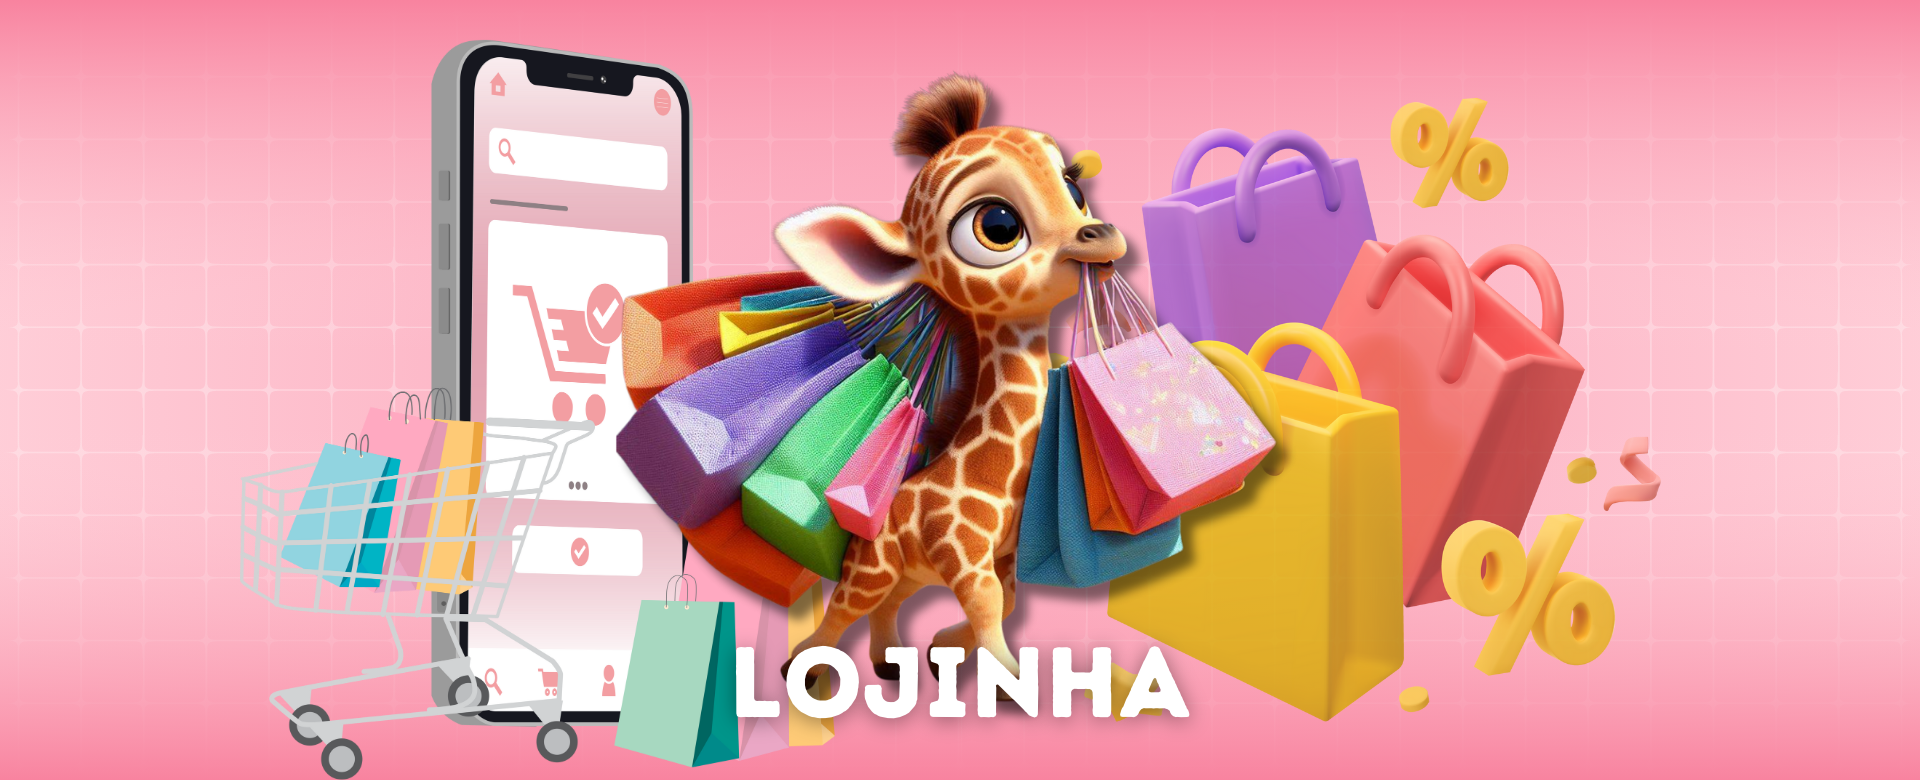
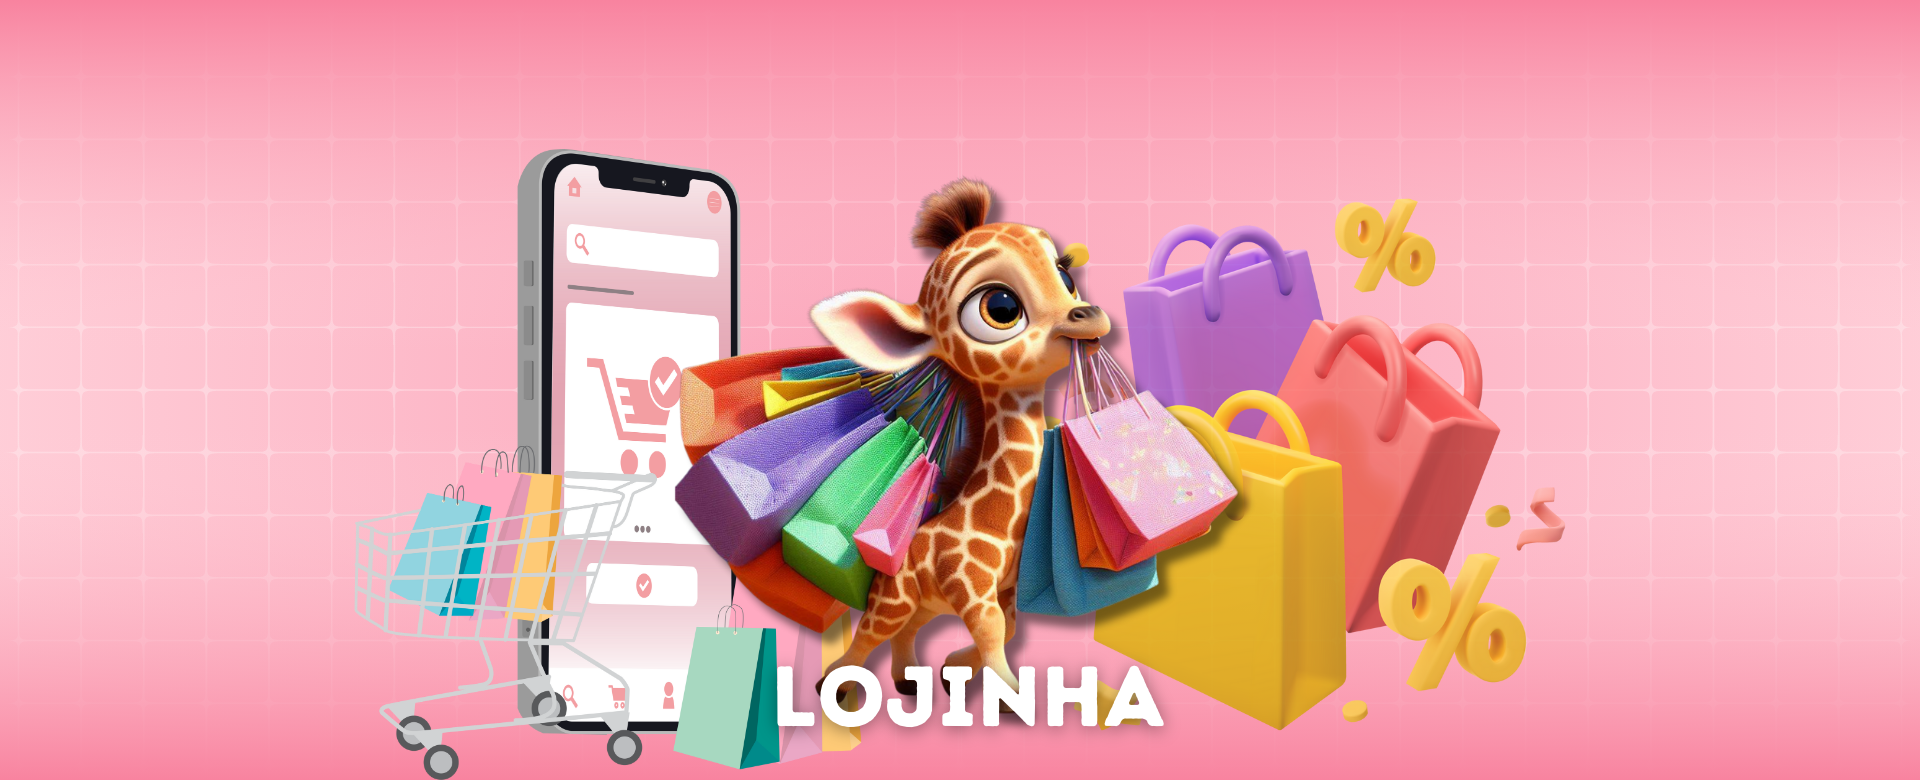
Colocando capa em todas as páginas e aviso de construção

diff --git a/src/routes.jsx b/src/routes.jsx
@@ -1,6 +1,9 @@
 import { BrowserRouter, Routes, Route } from 'react-router-dom';
 import { Home } from './pages/Home';
 import { Page404 } from './pages/Page404';
+import { Resumos } from './pages/Resumos';
+import { Registros } from './pages/Registros';
+import { Lojinha } from './pages/Lojinha';
 import { Contato } from './pages/Contato';
 import BasePage from './pages/BasePage';
 import React from 'react';
@@ -12,6 +15,9 @@ export function AppRoutes() {
                 <Routes>
                     <Route path="/" element={<BasePage />}>
                         <Route index element={<Home />}></Route>
+                        <Route path="/resumos" element={<Resumos />} />
+                        <Route path="/registros" element={<Registros />} />
+                        <Route path="/lojinha" element={<Lojinha />} />
                         <Route path="/contato" element={<Contato />} />
                         <Route path="*" element={<Page404 />} />
                     </Route>

diff --git a/src/components/Header/index.jsx b/src/components/Header/index.jsx
@@ -37,9 +37,9 @@ export function Header() {
             </Link>
             <nav ref={navRef}>
                 <Link to="/" onClick={showNavbar}>Home</Link>
-                <Link to="/" onClick={showNavbar}>Resumos</Link>
-                <Link to="/" onClick={showNavbar}>Registros</Link>
-                <Link to="/" onClick={showNavbar}>Comprar</Link>
+                <Link to="/resumos" onClick={showNavbar}>Resumos</Link>
+                <Link to="/registros" onClick={showNavbar}>Registros</Link>
+                <Link to="/lojinha" onClick={showNavbar}>Comprar</Link>
                 <Link to="/contato" onClick={showNavbar} id='botao-contato-header'>Entrar em Contato</Link>
                 <button
                     className="nav_btn nav_close_btn"

diff --git a/src/pages/Registros/index.jsx b/src/pages/Registros/index.jsx
@@ -1,0 +1,18 @@
+import './Registros.style.css';
+import Porquinho from '../../assets/img/Registros/Capa-Registros.png';
+import Pintinho from '../../assets/img/Construcao/Capa-Construcao.png';
+import React from 'react';
+
+export function Registros() {
+  return (
+    <>
+      <section id='page-404'>
+        <div id='primeira-apresentacao'>
+          <img src={Porquinho} alt="ImagemPrincipal" id='imagem-homepage' />
+        </div>
+
+        <img src={Pintinho} alt="Pintinho" id='imagem-construcao' />
+      </section>
+    </>
+  );
+}

diff --git a/src/pages/Lojinha/index.jsx b/src/pages/Lojinha/index.jsx
@@ -1,0 +1,18 @@
+import './Lojinha.style.css';
+import Girafa from '../../assets/img/Lojinha/Capa-Lojinha.png';
+import Pintinho from '../../assets/img/Construcao/Capa-Construcao.png';
+import React from 'react';
+
+export function Lojinha() {
+  return (
+    <>
+      <section id='page-404'>
+        <div id='primeira-apresentacao'>
+          <img src={Girafa} alt="ImagemPrincipal" id='imagem-homepage' />
+        </div>
+
+        <img src={Pintinho} alt="Pintinho" id='imagem-construcao' />
+      </section>
+    </>
+  );
+}

diff --git a/src/pages/Resumos/index.jsx b/src/pages/Resumos/index.jsx
@@ -1,0 +1,18 @@
+import './Resumos.style.css';
+import Baleia from '../../assets/img/Resumos/Capa-Resumos.png';
+import Pintinho from '../../assets/img/Construcao/Capa-Construcao.png';
+import React from 'react';
+
+export function Resumos() {
+  return (
+    <>
+      <section id='page-404'>
+        <div id='primeira-apresentacao'>
+          <img src={Baleia} alt="ImagemPrincipal" id='imagem-homepage' />
+        </div>
+
+        <img src={Pintinho} alt="Pintinho" id='imagem-construcao' />
+      </section>
+    </>
+  );
+}

diff --git a/src/index.css b/src/index.css
@@ -56,3 +56,9 @@ body::-webkit-scrollbar-thumb {
   width: 100%;
   margin-top: -20vh;
 }
+
+/* === Separação === */
+#imagem-construcao {
+  margin-top: 10vh;
+  width: 70%;
+}
